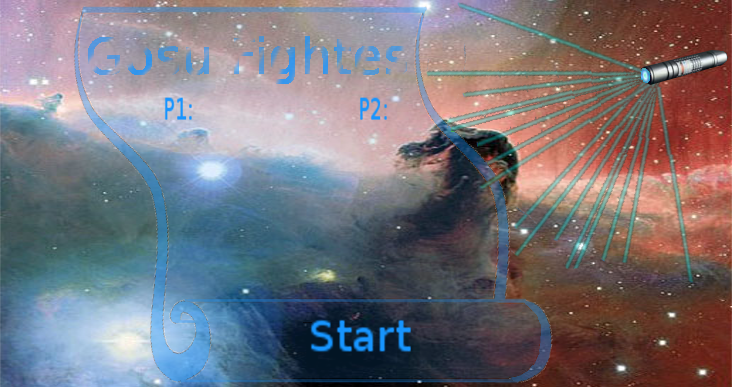
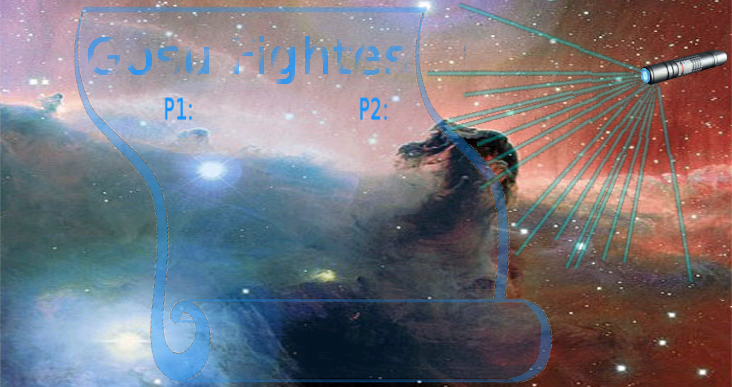
Reorganization

Changed region(s): [[0.4208, 0.8062, 0.571, 0.9302]]

diff --git a/lib/Controls/Title_screen.rb b/lib/Controls/Title_screen.rb
@@ -1,0 +1,55 @@
+require 'Text Input'
+
+class TitleControl
+
+  def initialize(window, next_app)
+    @win = window
+#    @next_app = next_app
+    Button.set_data(@win)
+    NewProfile.set_data(@win)
+    @bg = Gosu::Image.new(@win, "media/imgs/Title Sceen.png", true)
+    @pen = Gosu::Image.new(@win, "media/imgs/lazer pen.png", false)
+    @click = Gosu::MsLeft
+    @factorX = $width.to_f / @bg.width 
+    @factorY = $height.to_f / @bg.height
+    @next_app = self
+    @play = Button.new(@win , $width/2, $height - 100 , 4 , 0 , "Start") { 
+      @next_app = next_app.new(@win, self.class)
+    }
+    @p1_profile = Button.new(@win , $width/2 - 20 , $height/2 - 125 , 1 , 0 , "Register") {
+      
+    }
+    @p2_profile = Button.new(@win , $width/2 - 300 , $height/2 - 125 , 1 , 0 , "Register") {
+      
+    }
+    @new = Button.new(@win , $width/2 - 50, $height/2 + 100, 1 , 0 , "Create New Profile") {
+      @next_app = NewProfile.new(@win)
+    }
+  end
+
+  def update
+    @play.update
+    @new.update
+    @p1_profile.update
+    @p2_profile.update
+    # @x = @win.mouse_x
+    # @y = @win.mouse_y
+    # @pen_over = @x < $width / 2 + 54.5 && @x > $width / 2 - 54.5 && @y > $height - 100
+    # if @pen_over && @win.button_down?(Gosu::MsLeft)
+    #   return @next_app.new(@win, self.class)
+    # end
+    return @next_app
+  end
+
+  def draw
+    @x = @win.mouse_x
+    @y = @win.mouse_y
+    @bg.draw(0 , 0 , 0 , @factorX , @factorY)
+    @pen.draw( @x , @y - @pen.height , 5, 1, 1,
+               @pen_over ? Gosu::Color::GRAY : Gosu::Color::WHITE)
+    @play.draw
+    @new.draw
+    @p1_profile.draw
+    @p2_profile.draw
+  end
+end

diff --git a/lib/Controls/New Profile.rb b/lib/Controls/New Profile.rb
@@ -1,0 +1,49 @@
+class NewProfile
+
+  def initialize(win)
+    @win = win
+    @y1 = $height/2
+    @y2 = $height/2 + 100
+    @bg = Gosu::Image.new(@win, "media/imgs/Title Sceen.png", false)
+    @factorX = $width.to_f / @bg.width 
+    @factorY = $height.to_f / @bg.height
+    @pen = Gosu::Image.new(@win, "media/imgs/lazer pen.png", false)
+    @text1 = Gosu::Image.from_text(@win , "Screen Name:" , @@font , 25)
+    @tbox1 = TextField.new(@win , $width/2 , @y1 , 200 , "Screen Name")
+    @text2 = Gosu::Image.from_text(@win , "Image Path:" , @@font , 25)
+    @tbox2 = TextField.new(@win , $width/2 , @y2 , 200 , "Image Path")
+    @next_app = self
+    @done = Button.new(@win , $width/2, $height - 100 , 4 , 0 , "Done") {
+      n = @tbox1.text
+
+      open(File.expand_path("~/.gosu_fighters/Player_data/#{n}"), "w") { |f|
+        f.puts "Screen name:#{n}"
+        f.puts "Image Path:#{@tbox2.text}"
+      }
+      
+      @next_app = TitleControl.new(@win, GameControl)
+    }
+  end
+
+  def update
+    @tbox1.update
+    @tbox2.update
+    @done.update
+    return @next_app
+  end
+
+  def draw
+    @bg.draw(0 ,0 , 0 , @factorX , @factorY)
+    @pen.draw(@win.mouse_x , @win.mouse_y - @pen.height , 5, 1, 1,
+               @pen_over ? Gosu::Color::GRAY : Gosu::Color::WHITE)
+    @text1.draw(@y1 - 30 , $width/2 , 1)
+    @tbox1.draw
+    @text2.draw(@y2 - 30 , $width/2 , 1)
+    @tbox2.draw
+    @done.draw
+  end
+  
+  def self.set_data(win)
+    @@font = Gosu::Font.new(win , Gosu::default_font_name , 25)
+  end
+end

diff --git a/lib/Controls/Button.rb b/lib/Controls/Button.rb
@@ -1,0 +1,38 @@
+class Button
+  attr_reader :image
+  def initialize(win , x , y , scale , type = 0 , text = "button" , path = nil , &action)
+#    @imgs = path.load_tiles()
+    @win = win
+    @x = x
+    @y = y
+    if path != nil
+      @image = Gosu::Image.new(@win , path , false)
+    else
+      @image = Gosu::Image.from_text(@win , text , @@font , 25)
+    end
+    @hovering = false
+    @click = false
+    @action = action
+    @scale = scale
+  end
+  
+  def update
+    mx = @win.mouse_x
+    my = @win.mouse_y
+
+    @action[] if @click && !@win.button_down?(Gosu::MsLeft)
+
+    @hovering = my >= @y - @image.height * @scale && my < @y + @image.height * @scale && mx >= @x - @image.width * @scale && mx < @x + @image.width * @scale
+    @click = @hovering && @win.button_down?(Gosu::MsLeft)
+  end
+  
+  def draw
+    factor = @hovering ? 1.5 * @scale : 1 * @scale
+    color = @click ? Gosu::Color::GRAY : Gosu::Color::WHITE
+    @image.draw_rot(@x , @y , 2, 0 , 0.5 , 0.5 , factor , factor , color)
+  end
+
+  def self.set_data(win)
+    @@font = Gosu::Font.new(win , Gosu::default_font_name , 25)
+  end
+end

diff --git a/lib/Controls/Text Input.rb b/lib/Controls/Text Input.rb
@@ -1,0 +1,37 @@
+class TextField
+  attr_reader :text
+  def initialize(win, x, y, width , text = "")
+    @win, @x, @y = win, x, y
+    @bg = Gosu::Image.new(@win, "media/imgs/Text_box.png", false)
+    @font = Gosu::Font.new(@win,  Gosu::default_font_name , (0.8 * @bg.height).ceil)
+    @scale_x = width.to_f / @bg.width.to_f
+    @text_input = Gosu::TextInput.new
+    @text = text
+    @has_focus = false
+    update
+  end
+
+  def update
+    mx, my = @win.mouse_x, @win.mouse_y
+    click = @win.button_down?(Gosu::MsLeft)
+
+    if click
+      in_bg = mx >= @x && mx < @x + @bg.width * @scale_x && my >= @y && my < @y + @bg.height
+      if in_bg && !@has_focus
+        @has_focus = true
+        @win.text_input = @text_input
+      elsif !in_bg
+        @has_focus = false
+        @win.text_input = nil if @win.text_input == @text_input
+      end
+    end
+
+    @text = @text_input.text
+    @color = @has_focus ? Gosu::Color::WHITE : Gosu::Color::GRAY
+  end
+
+  def draw
+    @bg.draw(@x, @y, 1, @scale_x, 1, @color)
+    @font.draw(@text , @x + 0.1 * @bg.height , @y + 0.1 * @bg.height, 1)
+  end
+end

diff --git a/lib/Elements/player.rb b/lib/Elements/player.rb
@@ -12,12 +12,14 @@ class Player
     @dead = false
     @shield = shield
     @nb_missils = nb_miss
+#    @money = Tag.new( "media/imgs/Money_Icon.png" ,  0 , )
     @damage = 25
     @last_fire_missil = 0
     @last_e_f = 0
     @part_count = 0
     @parts = []
     @timer = 0
+#    @name = name
     update_img
   end
 
@@ -145,9 +147,16 @@ class Player
     @y %= $height
 
     @last_e_f += 1
+    
+    if !@dead
+      @vel_x *= 0.95
+      @vel_y *= 0.95
+    end
 
-    @vel_x *= 0.95
-    @vel_y *= 0.95
+    if @dead
+      @vel_x *= 0.99
+      @vel_y *= 0.99
+    end
   end
 
   def draw(flames)
@@ -163,6 +172,14 @@ class Player
  #   @@missil_icon.draw($width - (@@missil_icon.width + 14) , @hp.height + @amo.height + @shield.height + 4 , Z_BAR)
 
 #    @@font.draw( "X #{@nb_missils}" , 14 + @@missil_icon.width , @hp.height + @amo.height + @shield.height + 4 , Z_BAR) 
+  end
+
+  def update
+    open("", "w") { |f|
+      f.puts "#{name}"
+      f.puts "#{subject}"
+      f.puts "#{like}"
+    }
   end
 
   def self.set_img(img1, img2, fire_sound, explode_sound , e_f , mi , font)

diff --git a/bin/Gosu Fighters.rb b/bin/Gosu Fighters.rb
@@ -1,11 +1,14 @@
 #! /usr/bin/env ruby
 
-$: << "./lib"
+$: << "./lib/Controls" << "./lib/Elements"
 
 require 'gosu'
 require 'Game'
 require 'Title_screen'
-
+require 'New Profile'
+require 'Button'
+require 'Text Input'
+require 'register'
 
 $width = Gosu::screen_width
 $height = Gosu::screen_height
